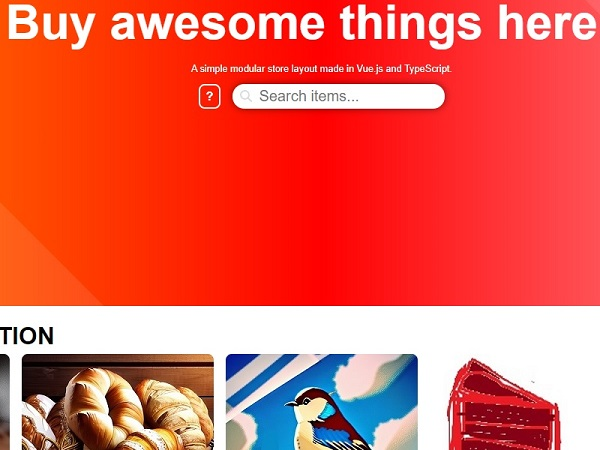
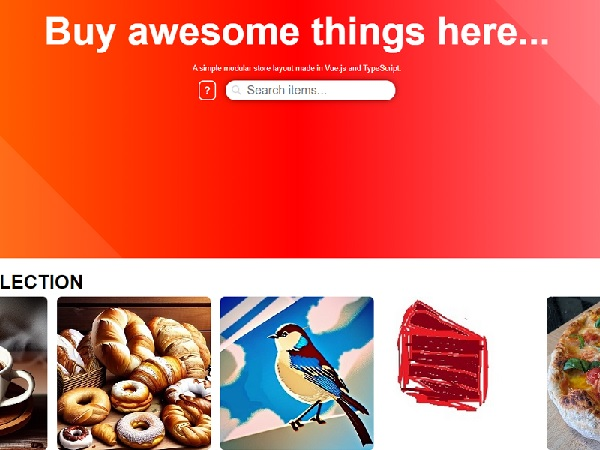
update hash scroll route link and add contact link in footer

diff --git a/src/views/AboutView.vue b/src/views/AboutView.vue
@@ -9,6 +9,7 @@
       </div>
     </div>
 
+
     <main class="text-container">
       <div class="width-container">
         <div class="language-container">
@@ -54,7 +55,7 @@
                 <a class="text-links" href="https://github.com/conrizzo/conradswebsite">GitHub</a>
               </li>
               <li>
-                This website does not use any cookies! Why does this matter? They track users, and <a class="text-links"
+                This website does not use any cookies. Why does this matter? They track users, and <a class="text-links"
                   href="https://blog.google/products/chrome/privacy-sandbox-tracking-protection/?trk=article-ssr-frontend-pulse_little-text-block">Google
                   says</a> they are "taking a responsible approach to phasing out third-party cookies in Chrome"
               </li>
@@ -104,7 +105,7 @@
                 <a class="text-links" href="https://github.com/conrizzo/conradswebsite">GitHub</a>
               </li>
               <li>
-                Diese Website verwendet keine Cookies! Warum ist das wichtig? Cookies verfolgen Benutzer, und <a
+                Diese Website verwendet keine Cookies. Warum ist das wichtig? Cookies verfolgen Benutzer, und <a
                   class="text-links"
                   href="https://blog.google/products/chrome/privacy-sandbox-tracking-protection/?trk=article-ssr-frontend-pulse_little-text-block">Google
                   sagt</a>, dass sie gerade dabei sind "taking a responsible approach to phasing out third-party cookies
@@ -157,8 +158,8 @@
               learn how to build my own websites and web
               applications.
             </p>
-
-            <p>
+            <!-- This area sets the contact to scroll where 'form-container' below in the middle of the page-->
+            <p id="contact-form-section">
               I am now keen on enhancing my programming abilities and advancing as a developer.
               Every day I'm motivated and curious to learn more. Anything in frontend, backend, or fullstack web
               applications piques my interest.
@@ -205,7 +206,6 @@
                   </li>
                 </ul>
               </form>
-
               {{ errorMessage }}
               <p v-show="submitMessageSuccess" style="color: #fff; font-size: 1.5rem;">Message sent successfully! Thank
                 you
@@ -352,6 +352,32 @@
                 :set-photo-caption="lightHouseCaptionDeutsch" />
             </div>
           </div>
+
+        </div>
+        <div class="center-with-flex">
+          <div style="overflow-x: hidden; width: 425px; padding-top: 1rem;">
+
+            <iframe title="Mobile Website Emulation Example" src="/about" width="425" height="600"
+              style="overflow:hidden;"></iframe>
+            <div class="center-with-flex"
+              style="color: #ffffff; padding-left: 0.5rem; padding-right: 0.5rem; padding-bottom: 0.5rem;">
+              <div>
+                <h2 style="font-size: 2rem; line-height: 1.1; padding-bottom: 1rem; padding-top: 1rem;">This whole
+                  website
+                  uses <i>Responsive Web Design</i></h2>
+                <p>Explore within this iframe, or use browser tools by <i>right-clicking</i> then selecting
+                  <i>'Inspect'</i>.
+                  The next steps will vary depending on your browser e.g. Chrome, Firefox, Safari, etc. The funny thing
+                  about this
+                  is by using an iframe to display this page with an iframe, it potentially makes an infinite loop
+                  of iframes, though the browser should limit this by default. If an iframe within an iframe within an
+                  iframe occurs this
+                  is not intended! I am not trying to <a href="https://www.youtube.com/watch?v=fQGbXmkSArs"
+                    class="text-links" target="_blank">'Hack time'</a>
+                </p>
+              </div>
+            </div>
+          </div>
         </div>
       </div>
     </main>
@@ -384,10 +410,10 @@ export default {
       languageButtonText: "Sprache: Deutsch",
       arrowText: "Deutsch",
 
-      titleText: "ConradsWebsite",
+      titleText: "Conrad's Website",
       contentText: "Thank you for visiting!<br>\
-      Welcome to the personal website of Conrad Lundberg.<br>\
-      This is primarily a place to test ideas and make some projects.",
+      Welcome to the personal and professional website of Conrad Lundberg.<br>\
+      ",
 
       clickCount: 0,
       firstClick: null,

diff --git a/src/components/Navigation/MainFooter.vue b/src/components/Navigation/MainFooter.vue
@@ -3,11 +3,16 @@
 
     <div class="text-area-left footer-right-border">
       <span>
-        <router-link class="footer-links footer-right-border" to="/about">About</router-link>&nbsp;<a
-          class="footer-links footer-right-border"
-          href="https://github.com/conrizzo/conradswebsite">GitHub</a>&nbsp;<router-link class="footer-links"
-          to="/">ConradsWebsite.com</router-link> © {{ getCurrentYear }}
-        <br><a class="footer-links" href="https://creativecommons.org/licenses/by-nc/4.0/">CC BY-NC 4.0</a>
+        <router-link class="footer-links footer-right-border" to="/about">About</router-link>
+        &nbsp;
+        <router-link class="footer-links footer-right-border"
+          :to="{ path: '/about', hash: '#contact-form-section' }">Contact</router-link>
+        &nbsp;
+        <a class="footer-links footer-right-border" href="https://github.com/conrizzo/conradswebsite">GitHub</a>
+        <br>
+        <router-link class="footer-links" to="/">ConradsWebsite.com</router-link> © {{ getCurrentYear }}
+        <br>
+        <a class="footer-links" href="https://creativecommons.org/licenses/by-nc/4.0/">CC BY-NC 4.0</a>
         unless noted otherwise.
       </span>
     </div>

diff --git a/src/components/Navigation/ProjectLinks.ts b/src/components/Navigation/ProjectLinks.ts
@@ -16,7 +16,7 @@ export default [
   { id: 3, text: 'Weather', to: '/projects/weather',caption:"Weather in Tuebingen, Germany", imageSrc: "" },
   { id: 4, text: 'Coffee Data', to: '/projects/datasets',caption:"Some miscellaneous data about coffee consumption", imageSrc: "" },
   { id: 5, text: 'Game', to: '/projects/cowgame',caption:"A game made using Vue.js and TypeScript", imageSrc: "" },
-  { id: 6, text: 'Sorting Algorithms', to: '/projects/sortingalgorithms',caption:"Made this to test some sorting algorithm outputs", imageSrc: "" },
+  { id: 6, text: 'Sorting Algorithms', to: '/projects/sortingalgorithms',caption:"Made for fun to test some sorting algorithm outputs", imageSrc: "" },
   { id: 7, text: 'Skat Game', to: '/projects/cards',caption:"An attempt to build a card game, got lost figuring out the rules so it's still a prototype...", imageSrc: "" },
   { id: 8, text: 'Fetch Data', to: '/projects/fetchdata',caption:"A simple experimental page that fetches api data and formats it", imageSrc: "" },
   { id: 9, text: 'Search Wordle Words', to: '/projects/search-assistant-to-help-find-words-for-the-wordle-game',caption:"Search Wordle words with TypeScript", imageSrc: "" },

diff --git a/src/views/HomeView.vue b/src/views/HomeView.vue
@@ -67,8 +67,7 @@ export default {
     return {
       itemsLength: 0,
       birdDrawing: require("@/images/BlueSkyBird.jpg"),
-      aCoffee: require("@/images/cup_of_coffee.jpg"),
-      
+      aCoffee: require("@/images/cup_of_coffee.jpg"),      
 
       inputString: "_ Hello,",
       name: "",
@@ -84,9 +83,7 @@ export default {
         "This code won't work!",
         "Fixed.",
         ":)"
-      ],
-
-     
+      ],     
       
     };
   },
@@ -95,7 +92,7 @@ export default {
     projectLinks() {
       return this.links; // Assuming `links` is the array of project links
     },
-
+    
   },
   methods: {
 

diff --git a/src/router/index.ts b/src/router/index.ts
@@ -232,11 +232,15 @@ const routes = [
 const router = createRouter({
   history: createWebHistory(process.env.BASE_URL),
   routes,
-  scrollBehavior(to: RouteLocationNormalized, from: RouteLocationNormalized, savedPosition) {
-    if (savedPosition) {
+  scrollBehavior(to: RouteLocationNormalized, from: RouteLocationNormalized, savedPosition) {    
+    if (to.hash) {
+      return { 
+        el: to.hash // scroll to hash element in page
+      }
+    } else if (savedPosition) {
       return savedPosition;
     } else {
-      return { top: 0 };
+      return { top: 0}      
     }
   },
 });

diff --git a/src/components/HomePage/ProjectGallery.vue b/src/components/HomePage/ProjectGallery.vue
@@ -202,7 +202,7 @@ figcaption {
   margin: 0em;
   max-width: 23rem;
   background: rgba(0, 0, 0, 0);
-  font-size: .9rem;
+  font-size: 1rem;
   font-weight: bold;
   color: rgb(255, 255, 255);
 }

diff --git a/src/assets/globalCSS.css b/src/assets/globalCSS.css
@@ -159,8 +159,10 @@ h1 {
   line-height: 1.5;
 }
 
-
-
+.center-with-flex {
+  display: flex;
+  justify-content: center;
+}
 
 .top-most-paragraph-space {
   padding-top: 1em;
